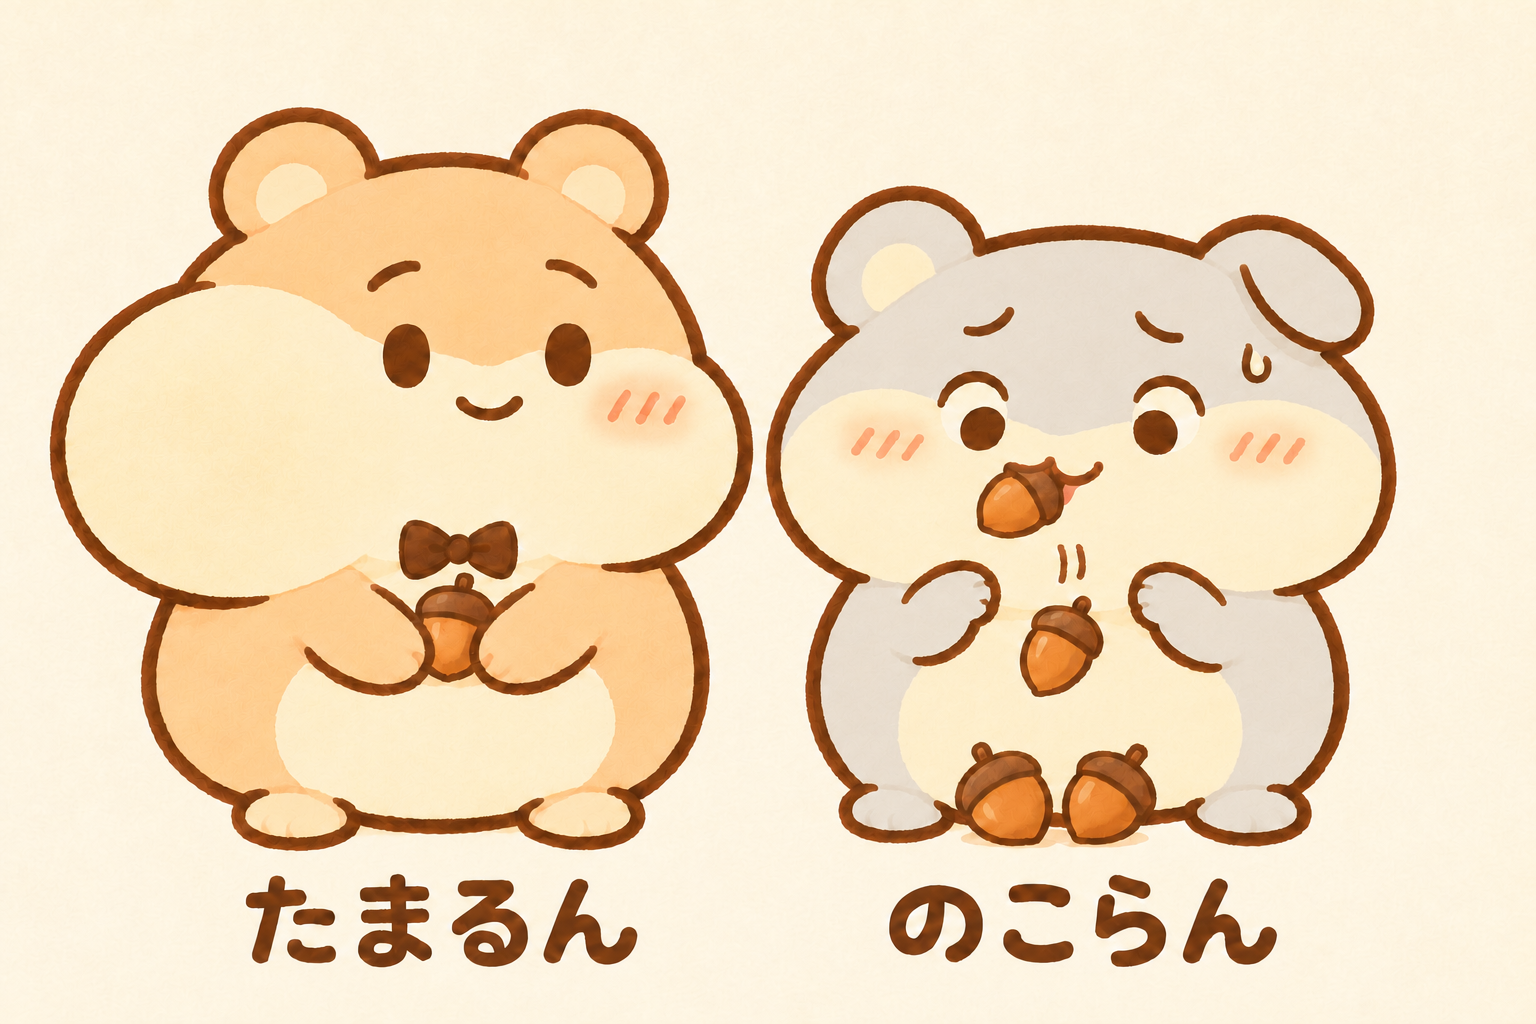
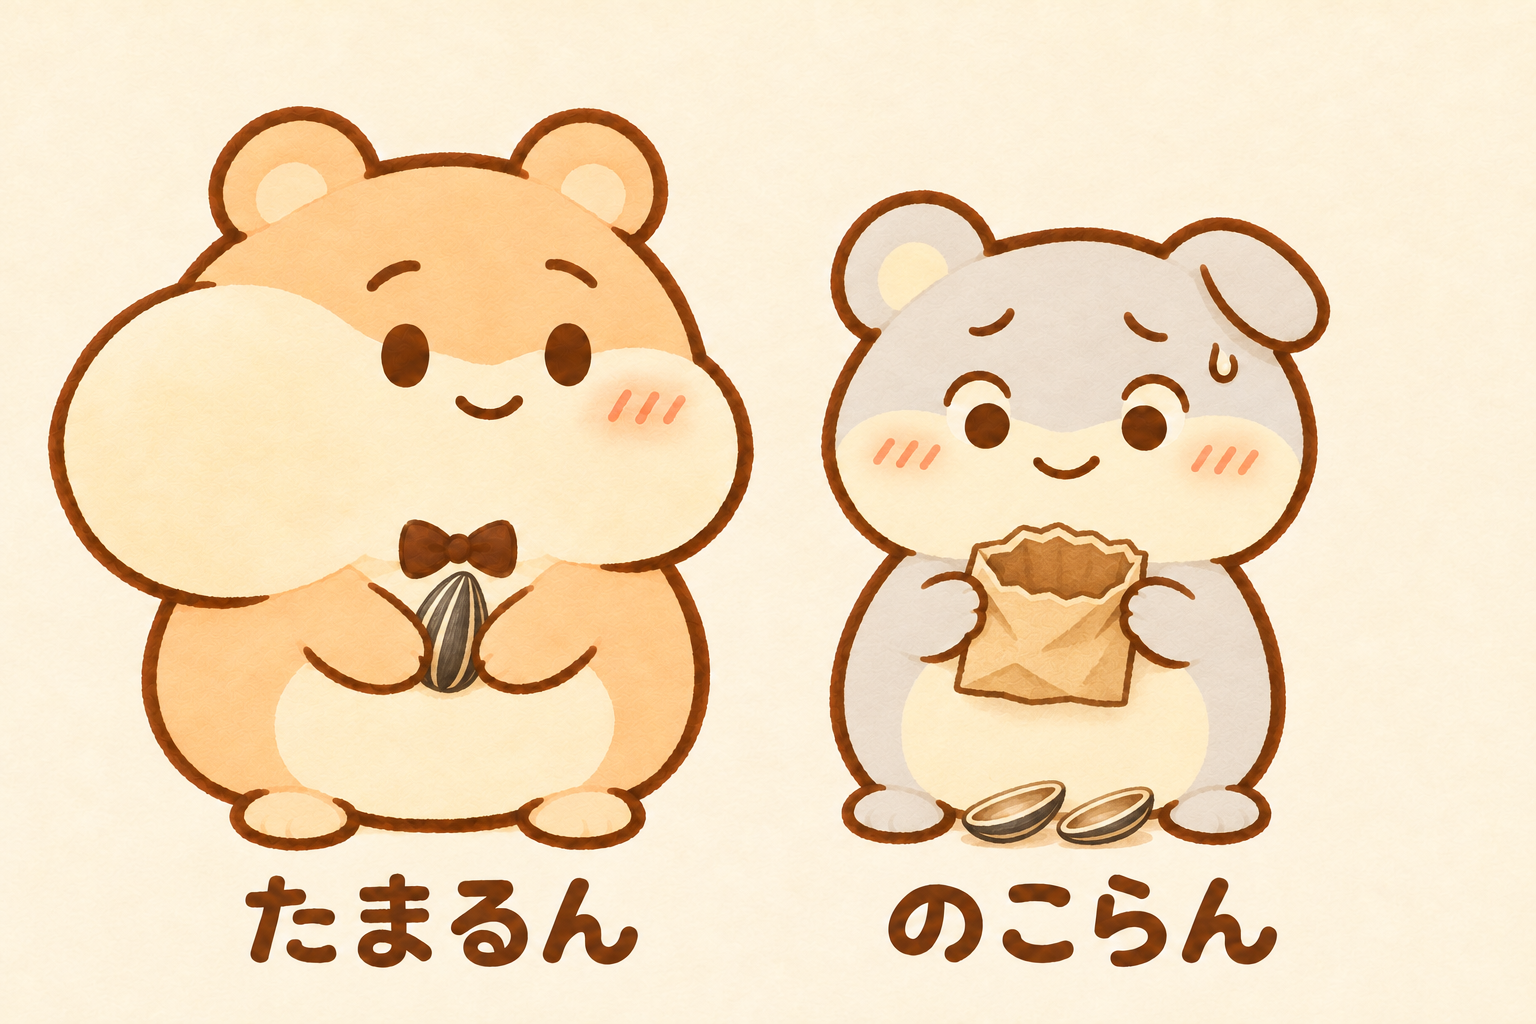
brand: refresh yarikuri hamsters with sunflower seeds

diff --git a/skill/references/characters.md b/skill/references/characters.md
@@ -1,21 +1,29 @@
 # たまるんとのこらん
 
-更新: 2026-11-18。やりくり公式noteの案内役。ユーザーが採用した二人のハムスター。架空のキャラクターであり、実在の利用者や金融資格者として扱わない。
+更新: 2026-11-20。やりくり公式X・noteの案内役。ユーザーが採用した二人のハムスター。架空のキャラクターであり、実在の利用者や金融資格者として扱わない。
 
 ## 外見と性格
 
 | | たまるん | のこらん |
 |---|---|---|
 | 色 | ミルクティーとアイボリー | ミルクグレーとアイボリー |
-| 目印 | 片方だけ大きなほっぺ、小さな蝶ネクタイ、丸い耳 | 少し折れた丸い耳、両ほっぺ、口からこぼれるどんぐり |
+| 目印 | ひまわりの種を残した片方だけ大きなほっぺ、小さな蝶ネクタイ、丸い耳 | 少し折れた丸い耳、空のほっぺと口、すっきり小さめの顔、空のおやつ袋や食べ終わった種の殻 |
 | 性格 | 本当に優しい。楽しみの予算も残し、予定にはきっちり | お調子者で前向き。「ちょっとだけ」が重なり、あとで気づく |
 | 一人称 | ぼく | 私 |
 | 会話の役割 | 気持ちを受け止め、一緒に具体的な方法を考える | 読者の思い込みや疑問を、勢いよく言葉にする |
 | 本人の楽しみ | 金曜日のプリン、おやつの時間 | 小さな買い物やごほうび |
 
-基準画像は `brand/characters/tamarun-nokoran/hamster-v3/pair-milk-grey-v3.png`。
+基準画像は `brand/character-reference.png`（note側の正本は `../note/brand/characters/tamarun-nokoran/hamster-v4/pair-sunflower-v4.png`）。
 二人ともハムスター。のこらんをうさぎやピンクへ戻さない。緑系を基調にしない。
 詳細な制作設定と履歴は同フォルダの `README.md`。旧設定は `archive/2026-11-18-before-tamarun-nokoran/` に保持する。
+
+## 画像で守る対比
+
+- たまるんは片方に種を残す。のこらんは食べちゃって残らない。性格の違いを見た目でも伝える。
+- のこらんの頬袋と口は空。横に張り出す大きな頬や、口から食べ物がこぼれる描写は使わない。顔幅はたまるんのおよそ4分の3を目安にする。痩せこけさせず、健康でかわいい体つきを保つ。
+- 種は細長い黒〜チャコールの殻にクリームの縦じま。丸い実や帽子付きのどんぐりにしない。
+- おやつ袋・財布・買い物かご・カレンダーは場面に応じて持つ。財布など説明に必要な小物を一律に空袋へ変えない。
+- 給料日の場面など、一時的に手元に種がある描写は可能。のこらんの頬は空のままにする。
 
 ## たまるんの話し方
 
@@ -48,19 +56,19 @@
 
 **のこらん：** 任せて！ 私、今日からためるハムスターになる！
 
-*ぽろっ。どんぐりが落ちた。*
+*袋を振った。ひまわりの種は一つも出てこなかった。*
 
-**のこらん：** ……今のは練習です。
+**のこらん：** ……ためる前の準備運動です。
 
-**たまるん：** うんうん！ そっちも一緒に拾おうね♪
+**たまるん：** うんうん！ 次のおやつの分から、一緒に考えようね♪
 
-**のこらん：** 待って。拾った分も、今日ためた数に入れていい？
+**のこらん：** 次の袋は、明日の私の分も残す。これは本気です。
 
 ## How To記事での使い方
 
 - 文の主語と発言者を二人にする。ただし手順・式・内訳まで会話へ押し込まない。
 - 語尾と名前だけを置換せず、のこらんの疑問から次の確認方法へ進める。
 - 大きな記事では冒頭・方法の切り替わり・まとめに短い掛け合いを置く。読み物だけで終えず、読者ができる手順を示す。
-- どんぐりのやり取りは短い場面転換に使えるが、実際の家計の金額と混ぜない。
+- ひまわりの種や空のおやつ袋のやり取りは短い場面転換に使えるが、実際の家計の金額と混ぜない。
 - 教訓のためにのこらんを叱らない。読者の収入・借金・金欠を笑わない。
 - アプリがなくても実行できる方法を先に出し、やりくりは最後の短い1節で案内する。

diff --git a/MIGRATION.md b/MIGRATION.md
@@ -38,4 +38,10 @@
 配信時には数値アカウントIDを照合してから画像をアップロードし、実際のユーザー名で投稿URLを記録する。
 日本語・URLを含む文字数の検査、認証不要のdry-run、誤ったアカウントで画像アップロード・投稿が行われないことを確認した。
 
-新ヘッダーは組み込みimage_genで制作。画像は `brand/profile-header-x-v1.png`、生成プロンプトは `brand/header-prompt.txt`、制作情報は `brand/assets.json`。
+新ヘッダーは組み込みimage_genで制作。画像は `brand/archive/2026-11-20-acorn/profile-header-x-v1.png`、当時の生成プロンプト・制作情報は `brand/archive/2026-11-20-acorn/`。
+
+## 2026-11-20 ひまわりの種への刷新
+
+Xプロフィールのアイコン・ヘッダー・紹介文をAPIで更新し、アカウントIDと公開画面を確認。のこらんは空の頬と口・小さめの顔、たまるんは種を残した片頬に変更。現行素材は `brand/README.md`。API結果は `storage/analytics/2026-11-20-sunflower-profile.json`。
+
+投稿済みの3件は画像だけの置換ができないため、削除・再投稿の選択をユーザーへ確認中。新版の画像は `brand/refresh/` に準備済み。回答までは元の投稿と配信記録を保持する。

diff --git a/profile.md b/profile.md
@@ -5,11 +5,13 @@
 - 旧ユーザー名: `AtelierBase_own`
 - 表示名: たまるんとのこらん｜やりくり公式
 - Webサイト: https://yarikuri.atelierbase.app/
-- アイコン: `brand/profile-icon-v1.png`（noteと共通）
-- ヘッダー: `brand/profile-header-x-v1.png`
+- アイコン: `brand/profile-icon-v2.png`（noteと共通）
+- ヘッダー: `brand/profile-header-x-v2.png`
 
 ## 自己紹介
 
-やりくり上手なたまるんと、お調子者ののこらんが、家計の「困った」を一緒に考えるよ！
-給料日前の金欠、カード代、年払い。今日から試せるお金の管理を、会話と図解でやさしく。
+ほっぺに種を残すたまるんと、つい食べちゃうのこらん。
+給料日前の金欠、カード代、年払い。家計の「困った」を、会話と図解で一緒に考えるよ！
 家計簿アプリ「やりくり」公式｜全機能無料
+
+2026-11-20更新。ひまわりの種と空のほっぺの新設定を、XプロフィールへAPIで反映・確認済み。

diff --git a/AGENTS.md b/AGENTS.md
@@ -56,3 +56,7 @@ gh workflow run scheduled-post.yml -R atelierbase/x-workflow-atelier -f slot=夜
 dry-runは認証・ネットワーク不要。実配信はアカウントIDを照合してから画像をアップロードする。
 Actionsの完了と `posted.md` の実際の投稿URLを確認する。キュー投入を投稿完了と扱わない。
 旧原稿・運用指示は `archive/2026-11-19-ai-account/` に保管。現在のプロフィールは `profile.md`、移行結果は `MIGRATION.md`。
+
+## 2026-11-20 キャラクター刷新
+
+食べ物は縦じまの細長いひまわりの種。たまるんは片方に残した大きな頬、のこらんは空の頬と口で顔幅を小さめにする。空袋や食べ終わった殻を使う。旧どんぐり・膨らんだのこらんは新規生成に使わない。詳細は `skill/references/characters.md`、正本は `brand/character-reference.png`。

diff --git a/brand/README.md b/brand/README.md
@@ -1,0 +1,11 @@
+# Xの現行ブランド素材
+
+2026-11-20。ひまわりの種と、のこらんの空の頬袋・口に統一。
+
+- 正本 `character-reference.png`
+- アイコン `profile-icon-v2.png`
+- Xヘッダー `profile-header-x-v2.png`
+- 生成指示 `sunflower-refresh-prompts.json`
+- 投稿画像の新版 `refresh/`（投稿済み画像はAPIで置換できない。削除・再投稿を確認するまで公開済みの履歴と画像は維持）
+
+旧どんぐり版は `archive/2026-11-20-acorn/`。アカウントID・ユーザー名は継続し、設定と文言は `../profile.md`、口調と外見は `../skill/references/characters.md` を参照する。
